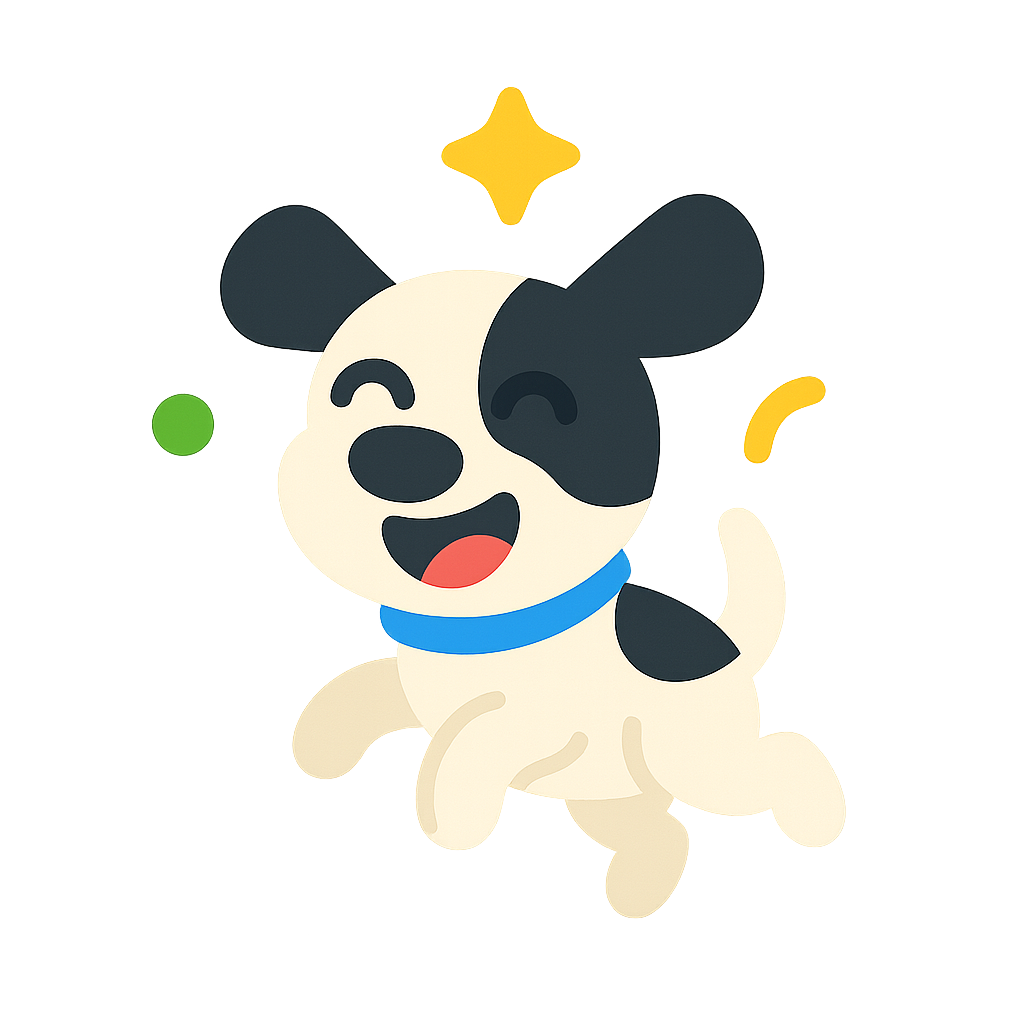
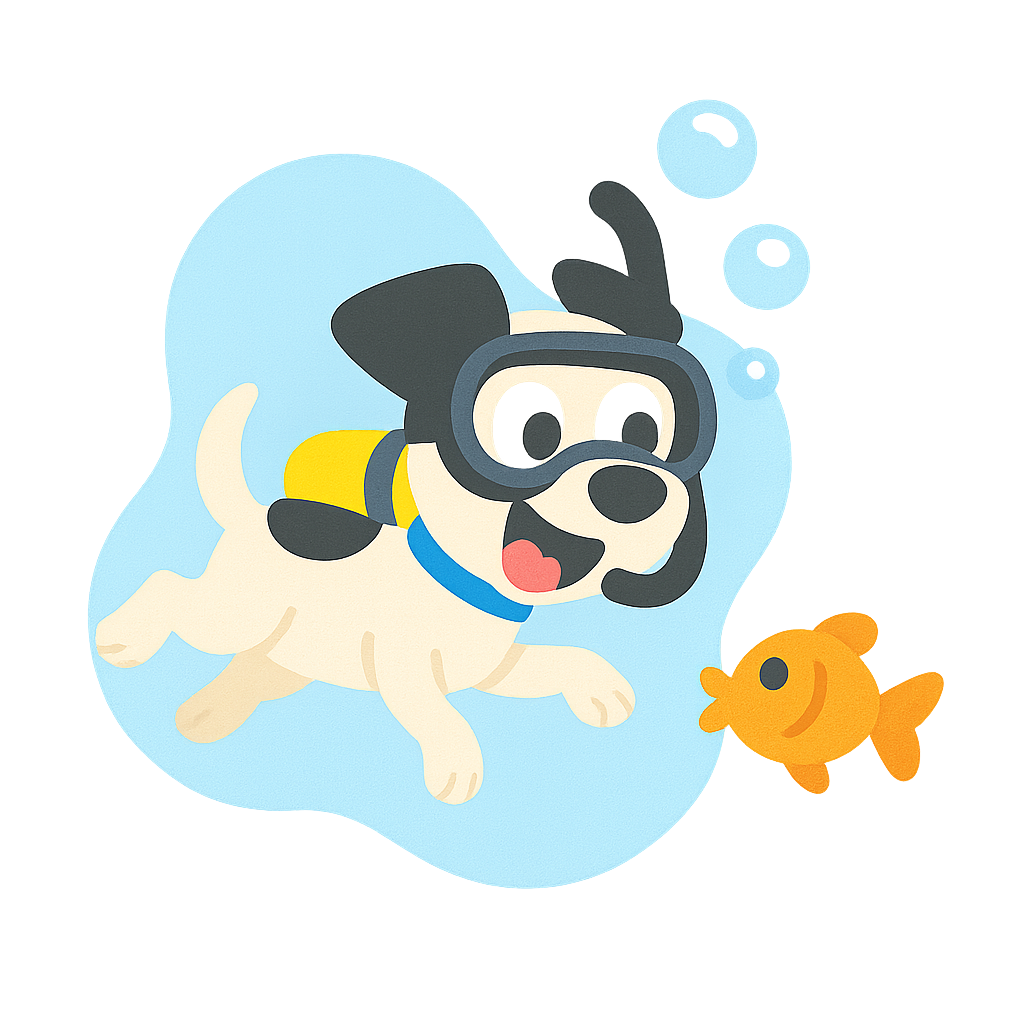
Added more images for pet state

diff --git a/src/components/app/AppView.tsx b/src/components/app/AppView.tsx
@@ -46,7 +46,7 @@ const AppView = () => {
         /*
             Effect to update pet image only when completion percentage changes
         */
-        const randomImageIndex = Math.floor(Math.random() * 2);
+        const randomImageIndex = Math.floor(Math.random() * 3);
 
         if (completedTasksPercentage.current < 40) {
             setSelectedPetImage(badPetImagesPaths[randomImageIndex]);
